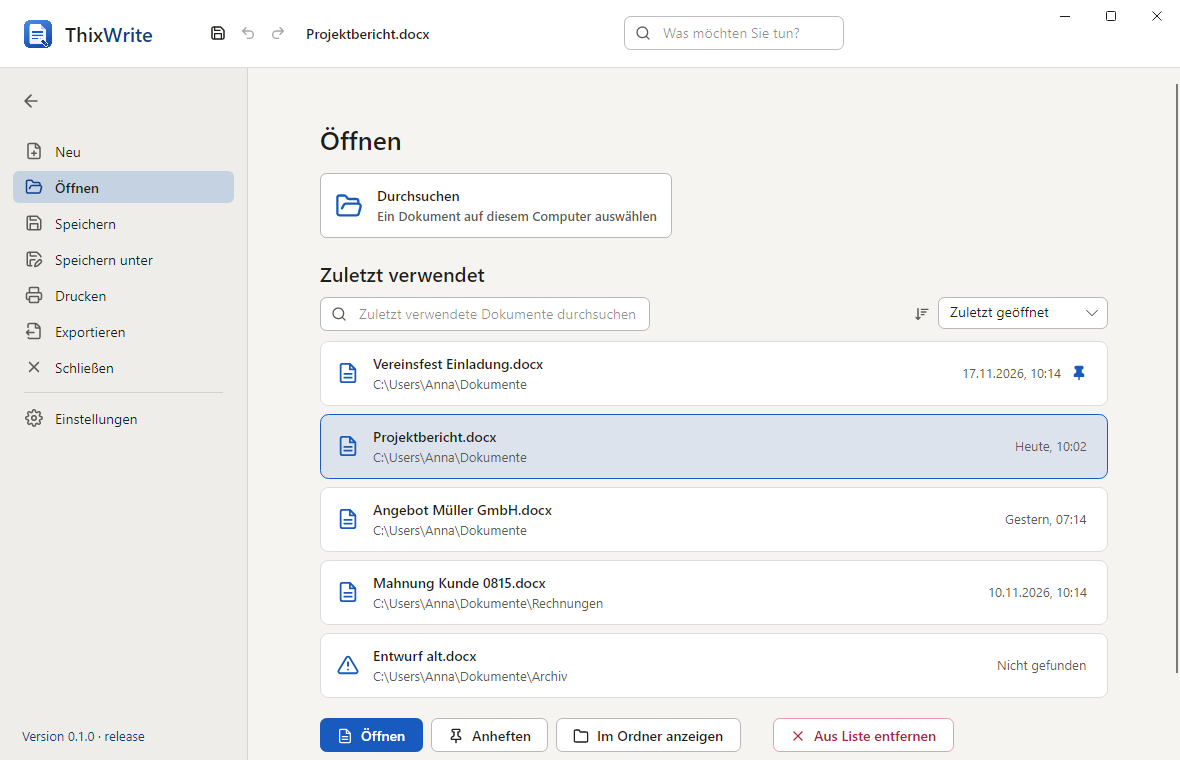
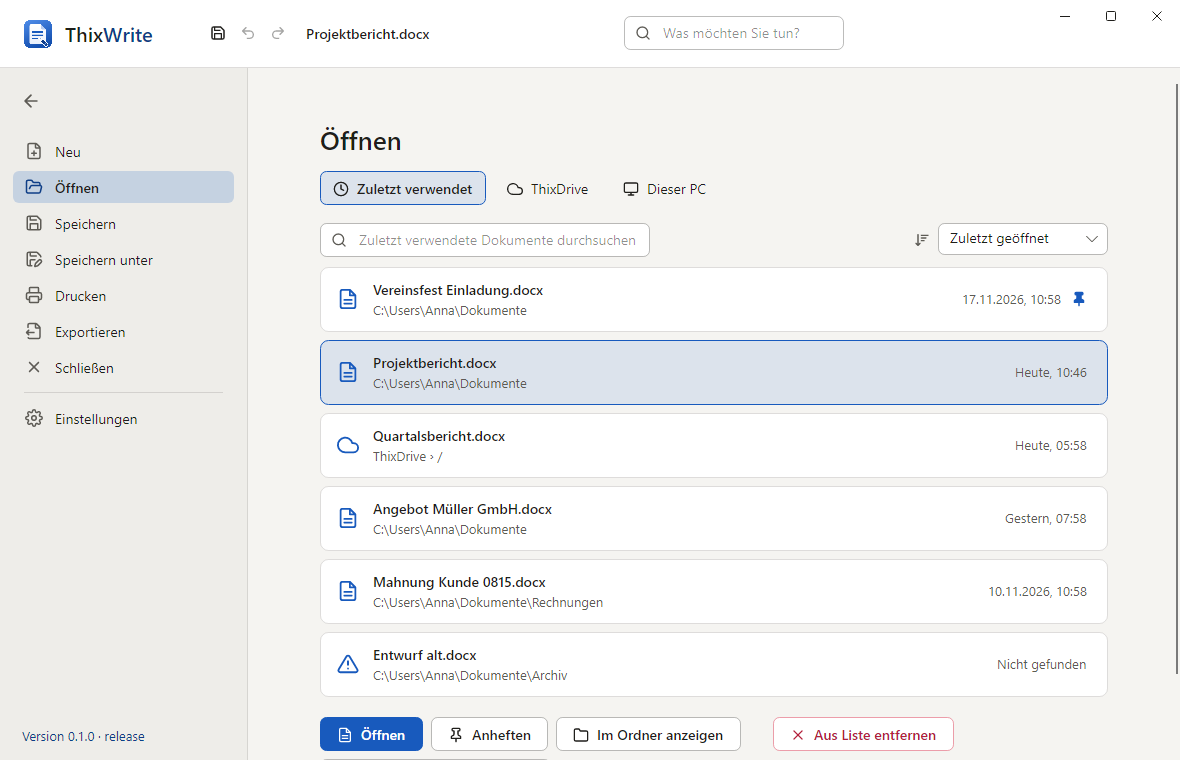
Docs: ThixCloud and ThixDrive – README (connecting, working, offline, conflicts; new pictures, the ribbon with its gallery), CLAUDE.md (CloudService, DriveService, the UI, decisions, how an app opts in, the integration run), PLAN Phase 2 status and gaps

diff --git a/CLAUDE.md b/CLAUDE.md
@@ -17,6 +17,7 @@ MatRibbon, MatBackstage, MatStatusBar and MatQuickAccess in the window.
 **Milestone 1a (done): ThixWrite's native editor** on `WordDocument` (docx default, txt), the filled ribbon, find/replace,
 page setup, zoom, PDF export. **Milestone 1b (done):** printing, tables, pictures, headers/footers/page numbers, links, ruler and
 tab stops, the dialogs Schriftart/Absatz, format painter, symbols, HTML paste (see the sections below; gaps in docs/PLAN.md).
+**Phase 2, ThixOffice side (done):** ThixCloud sign-in and documents in ThixDrive for every app (section "ThixCloud and ThixDrive").
 **Next:** 1c (table of contents, footnotes, comments, spelling, odt). Do not build ribbon controls of your own.
 
 Stack: **.NET 10** (`global.json` 10.0.100, latestMinor), C#, **Avalonia 11.3.22** with **MatDesktop 0.3.1** (a copy), xunit +
@@ -31,14 +32,17 @@ ThixOffice.slnx, Directory.Build.props (versioning, Major/Minor PER APP), global
 src/ThixOffice.Core        (no UI) shared by every app; every service is parameterized by the app's OfficeAppDefinition
   Models/                  OfficeAppDefinition (id, name, accent, description, DocumentTypes, UntitledBaseName, BlankDocumentLabel;
                            derived: Suffix, ExecutableName, SetupFileName, UninstallKey, PolicyKey, MacBundleId info.schmoldt.<id>,
-                           ManifestFileName <id>-update.json, MacPackageFileName, DataDirectoryVariable <APP>_DATA_DIR,
+                           ManifestFileName <id>-update.json, MacPackageFileName, DataDirectoryVariable <APP>_DATA_DIR, CloudAppId
+                           (write/calc/show; null = no cloud) + HasCloud,
                            ScreenshotsVariable, DocumentIconFileName, SupportedTypes, DefaultType, SaveType, SupportedTypeOf),
                            DocumentType (Extension, ProgId, Description, Support Supported|Planned, IsDefault, MimeType, UTI),
-                           AppSettings, RecentDocument(+Item, Order), BusinessException(message, field), Printing
+                           AppSettings (+ CloudSettings: address, account, device, protected token), DriveOrigin (+ DriveSyncState),
+                           RecentDocument (+ Drive: RecentDriveItem, Item, Order), BusinessException(message, field), Printing
                            (PrinterInfo, PrintRange, PaperSize: label + DEVMODE code + CUPS name, IPrintablePages: sizes, pixel
                            bands, PDF; PrintJob)
   Documents/               OfficeDocument: the UI-free base of every document model (FilePath, FileType, Title, IsDirty, IsPristine,
-                           IsRecovered, Undo/Redo, protected Read/Write(Stream), Changed)
+                           IsRecovered, Undo/Redo, protected Read/Write(Stream), Changed; Drive + DriveState + LocationText for a ThixDrive
+                           document whose FilePath is its local working copy)
   Commands/                OfficeCommand (Id, Label, Icon, Shortcut "Ctrl+S", MacShortcut, CurrentShortcut, Description, Keywords,
                            CanExecute, IsChecked, IsSearchable, ExecuteAsync), OfficeValueCommand : OfficeCommand (Kind Text|Number|
                            Color|Choice, Value, Options, ApplyAsync(value): font, size, colour, style), OfficeCommandRegistry (Add,
@@ -47,17 +51,19 @@ src/ThixOffice.Core        (no UI) shared by every app; every service is paramet
                            DocumentService (Open, Save, SaveAs, TargetPath, recovery), AccessPolicy (LockConfiguration, DisableUpdates,
                            DisableCloud, DisableFileAssociations, DisablePrinting), PrintService (printers, PagesOf "1-3, 5",
                            Print = policy + validation, then the IPrinterSystem), InstallService (Windows self-installing exe), UninstallEntry (what
-                           ThixLauncher reads), FileAssociations (ProgIDs, "Öffnen mit", Capabilities; opt-in default only for free
+                           ThixLauncher reads), CloudService + DriveService (ThixCloud / ThixDrive, see below), FileAssociations (ProgIDs, "Öffnen mit", Capabilities; opt-in default only for free
                            types), AutostartService (off by default), UpdateService + MacAppBundle (channel manifest, SHA-256, 6 h,
                            install on exit)
   Infrastructure/          AppInfo (Initialize(definition, appAssembly), Version/Channel/BuildNumber from the app's assembly, Pin for
                            snapshots), AppPaths, JsonFileStore, UserRegistry (IUserRegistry: WindowsUserRegistry | MemoryUserRegistry),
-                           TokenStore (DPAPI / Keychain), Log, ProblemReports, FileSystemProbe (snapshots show C:\Users\Anna\…)
-  Platform/                IPrinterSystem (+ SamplePrinterSystem for snapshots/tests); Windows/ ShellLink (.lnk through generated
+                           TokenStore (DPAPI / Keychain), Log, ProblemReports, FileSystemProbe (snapshots show C:\Users\Anna\…),
+                           AppPaths.DriveDirectory (the working copies of ThixDrive documents)
+  Platform/                IPrinterSystem (+ SamplePrinterSystem for snapshots/tests); SampleCloud (a ThixCloud in memory: sign-in,
+                           Drive, faults – snapshots, self test, tests); Windows/ ShellLink (.lnk through generated
                            COM), GdiPrinterSystem (winspool/gdi32 LibraryImport: pages as Skia pixel bands ≤ 600 dpi via
                            StretchDIBits, paper/orientation per page in the DEVMODE, copies collated here); MacOS/ CupsPrinterSystem
                            (libcups: destinations; the pages as PDF to cupsPrintFile with the media option)
-  MatCloud/                COPY of the MatCloud contract (never edited here); cloud sign-in comes in a later phase
+  MatCloud/                COPY of the MatCloud contract 1.4.0 (never edited here): CloudContract, MatCloudClient(.Drive), CloudHandoff
 src/ThixOffice.Desktop     shared Avalonia UI
   MatDesktop/              COPY of MatDesign's desktop toolkit 0.3.1 (never edited here)
   OfficeApplication        base Application of every app: Definition, CreateDocument, CreateEditor, AddCommands, CreateRibbon(window),
@@ -74,10 +80,11 @@ src/ThixOffice.Desktop     shared Avalonia UI
                            OfficeBackstage (MatBackstage with the pages by id; BackstageItem/BackstageContent), OfficeStatusBar
                            (MatStatusBar: texts by id + zoom), OfficeEditor (the app's part; Zoom 10–500 %, OpeningWarning, RequestZoomLevel), CommandSearchBox,
                            IFileDialogs + SystemFileDialogs
-  Pages/                   NewPage, OpenPage (Durchsuchen + Zuletzt verwendet: search, sort, pin, show, remove), SaveAsPage,
-                           SettingsPage (Allgemein | Speichern | Updates | Erweitert), AboutPage
-  Dialogs/                 QuestionDialog (+ SaveChangesDialog: Speichern, Abbrechen, gap, Nicht speichern), ProblemReportDialog
-  Controls/                ActionBar, IconLabel, InfoBar, FormErrors (from the reference apps)
+  Pages/                   NewPage, OpenPage + SaveAsPage (places: Zuletzt verwendet, ThixDrive, Dieser PC), DriveBrowser (the place
+                           ThixDrive, open and save mode), SettingsPage (Allgemein | Speichern | Cloud | Updates | Erweitert), AboutPage
+  Dialogs/                 QuestionDialog (+ SaveChangesDialog: Speichern, Abbrechen, gap, Nicht speichern), DriveDialogs (conflict,
+                           replace, pending upload), TextInputDialog, ProblemReportDialog
+  Controls/                ActionBar, IconLabel, InfoBar, FormErrors (from the reference apps), CloudSignInPanel
 src/ThixOffice.Text        (no UI, no native code) ITextMeasurer, FontSpec/FontMetrics, ShapedText, FixedWidthTextMeasurer (tests),
                            Drawing/ display lists (GlyphRunItem, RectangleItem, LineItem in points), Unicode/ LineBreaker (UAX 14),
                            TextBoundaries (graphemes, words)
@@ -97,8 +104,10 @@ src/ThixWrite              App (OfficeApplication: WordDocument, WriteEditor, co
                            Pages/PrintPage (Datei › Drucken, Strg+P: printer, copies, pages, paper; preview with
                            paging; prints PrintablePages on a worker thread), Pages/ExportPage (Datei › Exportieren: PDF), Assets (rendered by tools/render-icons.js)
 tests/ThixOffice.Core.Tests     definition, version, settings, policies, recent list, atomic save, recovery, install / file types /
-                                autostart in an in-memory registry (+ the whole setup on Windows), updates, commands, MatCloud copy
-tests/ThixOffice.Desktop.Tests  headless with a small TestOfficeApp: shell, search, backstage, keyboard, unsaved prompt, ribbon
+                                autostart in an in-memory registry (+ the whole setup on Windows), updates, commands, MatCloud copy,
+                                CloudTests + DriveTests (against SampleCloud), MatCloudIntegrationTests (real MatCloud, env-gated)
+tests/ThixOffice.Desktop.Tests  headless with a small TestOfficeApp: shell, search, backstage, keyboard, unsaved prompt, ribbon,
+                                ThixDrive (DriveUiTests: places, sign-in, browser modes, title bar state, conflict, closing, Cloud tab),
                                 binding, quick access, zoom,
                                 settings + lock, no literal colours, MatDesktop copy
 tests/ThixWrite.Core.Tests      model, editing engine (random undo/redo symmetry), layout (fixed-width measurer, 300 pages),
@@ -145,6 +154,40 @@ scripts/package-macos.sh   <Name>.app per app (Info.plist with CFBundleGetInfoSt
 - **Status bar**: `OfficeStatusBar` (MatStatusBar): `SetItem(id, text, side)`, `RemoveItem`, `TextOf`; its zoom and
   `OfficeEditor.Zoom` (10–500 %, `OnZoomChanged`, `ZoomChanged`) follow each other; commands `view.zoomIn/zoomOut/zoom100`.
 - The ribbon's collapsed state is remembered (`AppSettings.IsRibbonCollapsed`, `MatRibbon.CollapsedChanged`).
+
+## ThixCloud and ThixDrive (shared by every app)
+
+- **Opt in:** `OfficeAppDefinition.CloudAppId` (ThixWrite `write`, ThixCalc `calc`, ThixShow `show` – MatCloud's `CloudApps`; the Drive grants
+  its routes to these ids). Nothing else per app: the places, the browser, the Cloud tab, the title bar state, the save flow, the self test
+  check and the snapshots come from ThixOffice.Core/Desktop. Without a cloud id (or under the policy DisableCloud) all of it is hidden.
+- **CloudService** (static, Core): `ConnectInBrowserAsync` (code + verification page, polls), `ConnectAsync` (password, used once),
+  `ConnectFromLauncherAsync` (`CloudHandoff`, silently at the start in `OfficeApplication.Start`, then `RefreshAccountAsync`),
+  `DisconnectAsync`; `Status`/`StatusChanged` (`CloudState`: Off, Disabled, Connecting, Online, Offline, SignedOut = 401, Forbidden =
+  403 "von der Verwaltung abgeschaltet"); the token in `TokenStore` under `cloud-<user>@<server>` (Keychain service = the app's bundle id),
+  `CloudSettings` in settings.json; `Explain(exception)` turns every failure into a German `BusinessException` and moves the state.
+  Tests, snapshots and the self test plug `SampleCloud` in through `CloudService.HandlerForTests`.
+- **DriveService** (static, Core): browse (`ListAsync` with sort + paging of `PageSize`, `SearchAsync`, `RecentAsync`, `CreateFolderAsync`,
+  `RenameAsync`, `TrashAsync`, `QuotaAsync`, `CheckName` with the cloud's rules, `Matches` = the type filter); `OpenAsync` downloads into
+  `AppPaths.DriveDirectory/<account hash>/<item id>/<name>` + `drive.json` (the `DriveOrigin`: server, user, item, parent, name, location,
+  ETag, IsUploadPending) – a pending working copy is NEVER replaced by a download; `SaveAsync` = atomic save of the working copy, sidecar
+  pending, then `SaveDriveFileAsync` with If-Match → `DriveSaveResult` (`Uploaded`, `NotUploaded` – offline, 5xx, 401, 403 –,
+  `ChangedMeanwhile` with `Current`); 413/507/404 throw (still pending); `UploadAsync` (retry), `OverwriteAsync(current)`, `SaveCopyAsync`
+  (a new file "Name (2).ext", the document follows it), `SaveAsAsync(folder, name, replacing)` (`NameTaken` → ask, then `replacing`);
+  `OpenRecentAsync` (from the Drive, else the working copy); `PendingUploads`. `DocumentService.SaveAs` to a local path makes a Drive
+  document local again; `DocumentService.Save` refuses a Drive document (the window routes it).
+- **UI (Desktop):** Öffnen / Speichern unter have places (`DocumentPlace`: Zuletzt verwendet, ThixDrive, Dieser PC) as a row of
+  choices above the content (a column left too little width for the list's actions). `DriveBrowser(window, mode)`: toolbar (search across
+  the Drive, type filter = the app's types by default, sort), breadcrumbs, list (icon, name, modified, size), "Weitere laden", in the save
+  mode file name + type, actions Öffnen/Speichern · Neuer Ordner · Umbenennen · gap · In den Papierkorb; not signed in it shows the
+  compact `CloudSignInPanel` (the same panel is the Cloud tab's sign-in). `OfficeApplication.OpenFromDriveAsync/OpenRecentAsync`,
+  `OfficeWindow.SaveIntoDriveAsync/RetryUploadAsync/ResolveConflictAsync`; Strg+S on a Drive document runs `DriveService.SaveAsync` (one
+  upload at a time, `OfficeWindow.Upload`), a waiting upload is retried every 30 s and when the document opens; closing waits for a
+  running upload and asks about a waiting one. `CloudIndicator` at the right of the title bar (Mat tokens): nothing / quiet cloud /
+  "In ThixDrive" / "Wird hochgeladen …" / "Nicht hochgeladen" (click = retry) / "Konflikt" (click = the question) / "Offline" / "Abgemeldet".
+- **Decisions:** conflict = Als Kopie speichern (primary, default: nobody's work is replaced) · Später · gap · Überschreiben (danger: the
+  other version stops being current, it stays a version). Name taken = Anderen Namen wählen · gap · Ersetzen. Closing with a waiting upload
+  = Erneut versuchen · Abbrechen · gap · Trotzdem schließen (uploaded at the next open). No backstage entry "Konto": like the reference
+  apps the account lives in Einstellungen › Cloud (the title bar state opens it).
 
 ## ThixWrite's editor
 
@@ -263,6 +306,8 @@ scripts/package-macos.sh   <Name>.app per app (Info.plist with CFBundleGetInfoSt
 - **Snapshots:** `dotnet run --project src/ThixWrite -- --snapshot <folder>` draws every window headless in light and dark
   (`thixwrite-main`, `-main-ribbon-collapsed`, `-backstage-{new,open,saveas,settings,settings-save,settings-updates,about}`,
   `-dialog-save-changes`, `-setup-{welcome,options,update,uninstall}` on Windows, and the app's scenes
+  (`backstage-open-signin`, `-backstage-open-drive`, `-backstage-saveas-drive`, `-backstage-settings-cloud`, `-main-drive-pending`,
+  `-dialog-drive-conflict` for an app with a cloud id, against SampleCloud) and the app's scenes
   (`OfficeApplication.SnapshotScenes`; ThixWrite: `-main-layout`, `-main-view`, `-main-find`, `-dialog-page-setup`,
   `-main-table`, `-main-picture`, `-main-header`, `-backstage-print`, `-backstage-export`)): the sample report (`SampleDocument`), version 0.1.0, ANNA-PC, C:\Users\Anna\Dokumente, a sample recent
   list – no real path shows. `THIXWRITE_SCREENSHOTS=<folder> dotnet test tests/ThixWrite.Tests` does the same from the tests.
@@ -278,8 +323,12 @@ scripts/package-macos.sh   <Name>.app per app (Info.plist with CFBundleGetInfoSt
   `src/MatDesktop`, version in `matdesktop.version`): never edit it here; copy again with `node tools/matdesktop-copy.js
   <path>/ThixOffice/src/ThixOffice.Desktop` in MatDesign. `RulesTests.The_copy_of_MatDesktop_is_unchanged` holds it. Icons the
   sprite lacks go into MatDesign's sprite first.
-- **MatCloud contract** (`src/ThixOffice.Core/MatCloud/`) is a COPY: `node ../MatCloud/tools/contract-copy.js src/ThixOffice.Core`;
-  `CopyTests` holds it. ThixCloud sign-in (app ids write/calc/show) comes in a later phase.
+- **MatCloud contract** (`src/ThixOffice.Core/MatCloud/`) is a COPY (1.4.0): run `node tools/contract-copy.js <path>/ThixOffice/src/ThixOffice.Core`
+  inside MatCloud; `CopyTests` holds it.
+- **Integration run against a real MatCloud:** a THROWAWAY instance only (own compose project name, own port, tmpfs for /data –
+  `uid=1654` – and for the database, `MATCLOUD_ADMIN_USER/PASSWORD` create the account; never the ports 4950–4952 or the volumes of a
+  local instance; `docker compose down -v --rmi local` afterwards), then `THIXOFFICE_MATCLOUD_URL=… THIXOFFICE_MATCLOUD_USER=…
+  THIXOFFICE_MATCLOUD_PASSWORD=… dotnet test tests/ThixOffice.Core.Tests --filter MatCloudIntegrationTests` (without them it does nothing).
 
 ## Rules
 
@@ -326,7 +375,7 @@ scripts/package-macos.sh   <Name>.app per app (Info.plist with CFBundleGetInfoSt
 ## Adding an app to the suite (ThixCalc, ThixShow)
 
 1. `src/ThixCalc.Core`: `ThixCalcApp.Definition` (id `thixcalc`, name `ThixCalc`, accent, description, document types – formats
-   without a reader are `Planned`; `UntitledBaseName` "Mappe", `BlankDocumentLabel` "Leere Arbeitsmappe") and the document model
+   without a reader are `Planned`; `UntitledBaseName` "Mappe", `BlankDocumentLabel` "Leere Arbeitsmappe", `CloudAppId = CloudApps.Calc` for ThixDrive) and the document model
    (derive from `OfficeDocument`).
 2. `src/ThixCalc`: copy ThixWrite's csproj / app.manifest / App.axaml / Program.cs; `App : OfficeApplication` with
    `CreateDocument`, `CreateEditor` (an `OfficeEditor`), `AddCommands`, `Ribbon`; `Program.Main => OfficeProgram.Run<App>(…)`.

diff --git a/README.md b/README.md
@@ -8,7 +8,7 @@ und die aussieht wie die übrigen Thix-Apps.
 
 | Programm | statt | Formate | Stand |
 | --- | --- | --- | --- |
-| **ThixWrite** | Word | docx, txt, später odt | Meilenstein 1a: nativer Editor, docx, PDF-Export |
+| **ThixWrite** | Word | docx, txt, später odt | Meilenstein 1b; Dokumente in ThixDrive (Phase 2) |
 | **ThixCalc** | Excel | xlsx, csv, später ods | Logo |
 | **ThixShow** | PowerPoint | pptx, später odp | Logo |
 
@@ -48,6 +48,41 @@ Hinweis, welche es sind.
 | **Einstellungen › Speichern** | **Änderungen speichern?** |
 | ![Einstellungen](docs/images/thixwrite-backstage-settings-save-light.png) | ![Änderungen speichern](docs/images/thixwrite-dialog-save-changes-light.png) |
 
+## ThixCloud und ThixDrive
+
+ThixWrite öffnet und speichert Dokumente direkt in **ThixDrive**, der Ablage Ihrer **ThixCloud** (MatCloud) – auf jedem
+Computer und im Browser. ThixCalc und ThixShow bekommen dasselbe, sobald es sie gibt.
+
+**Verbinden:**
+
+1. *Datei › Einstellungen › Cloud* (oder *Datei › Öffnen › ThixDrive*): die Adresse Ihrer ThixCloud eintragen
+   (z. B. `https://cloud.example.com`).
+2. **Im Browser anmelden** (empfohlen, für jedes Konto, auch über MatIdentity): ThixWrite zeigt einen Code und öffnet die
+   Anmeldeseite; dort anmelden und prüfen, dass derselbe Code steht – ThixWrite verbindet sich, sobald Sie bestätigen.
+   Oder **Mit Benutzername und Passwort** eines Kontos der ThixCloud. Das Passwort wird nur für die Anmeldung verwendet und nie
+   gespeichert; das Geräte-Token liegt geschützt (Windows: DPAPI, macOS: Schlüsselbund).
+3. Hat **ThixLauncher** ThixWrite installiert, ist es beim ersten Start schon angemeldet.
+
+Abmelden unter *Einstellungen › Cloud* entfernt diesen Computer aus Ihrem Konto; Ihre Dokumente bleiben, wo sie sind.
+
+**Arbeiten:** *Datei › Öffnen* und *Datei › Speichern unter* haben die Orte „Zuletzt verwendet“, „ThixDrive“ und „Dieser PC“.
+In ThixDrive suchen Sie über die ganze Ablage, filtern nach Typ, sortieren, legen Ordner an, benennen um und legen in den
+Papierkorb (30 Tage, im Browser wiederherstellbar). Strg+S speichert ein ThixDrive-Dokument zuerst auf diesem Computer, dann
+als neue Version in ThixDrive; oben rechts in der Titelleiste steht, wo es steht („In ThixDrive“, „Wird hochgeladen …“).
+
+- **Ohne Verbindung geht nichts verloren:** Das Dokument bleibt gespeichert (als Arbeitskopie auf diesem Computer) und ist als
+  **„Nicht hochgeladen“** markiert; ThixWrite versucht es alle 30 Sekunden erneut, ein Klick darauf sofort. Beim Schließen
+  fragt ThixWrite nach; wer trotzdem schließt, dem wird es beim nächsten Öffnen hochgeladen.
+- **Hat jemand die Datei inzwischen geändert**, fragt ThixWrite: **Als Kopie speichern** (Vorschlag – beide Fassungen bleiben),
+  **Später** oder – abgesetzt – **Überschreiben** (Ihre Fassung wird die aktuelle; die andere bleibt als ältere Version).
+- Ist der Speicherplatz voll oder die Datei zu groß, sagt ThixWrite das; das Dokument bleibt auf diesem Computer gespeichert.
+
+| | |
+| --- | --- |
+| ![ThixDrive öffnen](docs/images/thixwrite-backstage-open-drive-light.png) | ![In ThixDrive speichern](docs/images/thixwrite-backstage-saveas-drive-light.png) |
+| ![Anmelden](docs/images/thixwrite-backstage-open-signin-dark.png) | ![Einstellungen › Cloud](docs/images/thixwrite-backstage-settings-cloud-light.png) |
+| ![Nicht hochgeladen](docs/images/thixwrite-main-drive-pending-light.png) | ![Datei wurde inzwischen geändert](docs/images/thixwrite-dialog-drive-conflict-light.png) |
+
 ### Tastenkürzel
 
 Wie im deutschen Word, wo sie nicht kollidieren (unter macOS ⌘ statt Strg, ⌥ für Wort-Bewegungen):
@@ -85,8 +120,9 @@ Wie im deutschen Word, wo sie nicht kollidieren (unter macOS ⌘ statt Strg, ⌥
 ## Für Administratoren
 
 Richtlinien je App (Wert 1 = an): Windows `HKLM\SOFTWARE\Policies\ThixWrite` (DWORD), macOS ein Konfigurationsprofil für
-`info.schmoldt.thixwrite` – `LockConfiguration` (Einstellungen gesperrt), `DisableUpdates`, `DisableCloud`,
-`DisableFileAssociations`.
+`info.schmoldt.thixwrite` – `LockConfiguration` (Einstellungen gesperrt), `DisableUpdates`, `DisableCloud` (keine Anmeldung
+an der ThixCloud, kein ThixDrive), `DisableFileAssociations`, `DisablePrinting`. In der ThixCloud selbst lässt sich ThixDrive (oder
+die App) für alle abschalten; ThixWrite zeigt dann „von der Verwaltung abgeschaltet“.
 
 ## Entwickeln
 

diff --git a/docs/PLAN.md b/docs/PLAN.md
@@ -57,7 +57,7 @@ dann veröffentlicht, wenn macOS scheitert).
 - OTA über Channel-Manifest `<app>-update.json` in `release-channel` / `nightly-channel`,
   SHA-256-Prüfung; „Updates automatisch installieren“ installiert **beim Beenden** (wie ThixNote).
 - Autostart als Einstellung (Windows Run-Key, macOS LaunchAgent), bei Editoren standardmäßig aus.
-- ThixCloud: kopierter MatCloud-Vertrag, Anmeldung per Browser-Link, Passwort oder Launcher-Übergabe.
+- ThixCloud: kopierter MatCloud-Vertrag, Anmeldung per Browser-Link, Passwort oder Launcher-Übergabe (umgesetzt, Phase 2).
 - Oberfläche deutsch, Code/Kommentare englisch. Commits nur unter Matthias Schmoldt, ohne Trailer.
 
 ## 4. Architektur
@@ -195,6 +195,22 @@ Jede Phase endet mit grünem Build, Tests, Push nach `dev` (Nightly) und – wen
 - MatCloud: App-IDs `write`, `calc`, `show`, `drive`; Modul `MatCloud.Apps.Drive` (Dateibaum, Versionen,
   Papierkorb, Freigaben, Blob-Speicher, Chunk-Upload) mit Web-App und Geräte-API `/api/v1/drive/…`.
 - ThixOffice: `DriveService` + Drive-Dateidialog; Öffnen/Speichern direkt im Drive, Konflikt über Versionen.
+- **Stand (2026-11-19): ThixOffice-Seite erledigt** gegen MatCloud-Vertrag 1.4.0 (Drive-Geräte-API, App-IDs write/calc/show).
+  Gemeinsam in ThixOffice.Core/Desktop, eine App schaltet es mit `OfficeAppDefinition.CloudAppId` ein (ThixWrite = `write`):
+  `CloudService` (Anmeldung im Browser mit Code, mit Passwort, Übergabe von ThixLauncher still beim Start; Abmelden; Konto;
+  Zustand; 401 meldet ab, 403 = „von der Verwaltung abgeschaltet“; Richtlinie DisableCloud), `DriveService` (Ordner mit Seiten
+  und Sortierung, Suche, Zuletzt, Neuer Ordner, Umbenennen, Papierkorb, Speicherplatz; Öffnen in eine **lokale Arbeitskopie** mit
+  Begleitdatei drive.json – Element-ID, ETag, Server, Konto; Speichern = erst atomar lokal, dann neue Version mit If-Match;
+  Konflikt → Als Kopie speichern / Später / Überschreiben; offline → „Nicht hochgeladen“, nie verloren, Wiederholung alle 30 s
+  und beim nächsten Öffnen; Kontingent/zu groß als klare Meldung; Speichern unter mit Namenskonflikt → Ersetzen?). Oberfläche:
+  Orte in Öffnen/Speichern unter (Zuletzt verwendet, ThixDrive, Dieser PC), der ThixDrive-Browser (Suche, Typfilter, Sortierung,
+  Pfad, „Weitere laden“, Aktionen unten), Einstellungen › Cloud, Zustand rechts in der Titelleiste, „Zuletzt verwendet“ mit
+  Wolke (öffnet aus dem Drive, offline aus der Arbeitskopie). Geprüft gegen eine MatCloud im Speicher (Tests, Selbsttest,
+  Snapshots) und einmal gegen eine echte MatCloud (feature/drive, Wegwerf-Instanz). **Lücken:** Versionen ansehen/wiederherstellen
+  und Freigaben nur im Browser; „Zuletzt verwendet“ des Kontos (alle Geräte) wird nicht angezeigt (nur die eigene Liste); Speichern
+  unter ohne Verbindung speichert nicht (das Dokument bleibt ungespeichert mit Wiederherstellungsdatei); Hochladen in Stücken über
+  64 MB nur über den Vertrag, ohne Fortsetzen nach einem Neustart; kein Konto-Eintrag im Backstage (wie in den Referenz-Apps:
+  Einstellungen › Cloud).
 
 ### Phase 3 – ThixCalc
 Zellmodell, Formel-Engine (Parser, Abhängigkeitsgraph, Funktionsbibliothek), virtualisiertes Raster,
